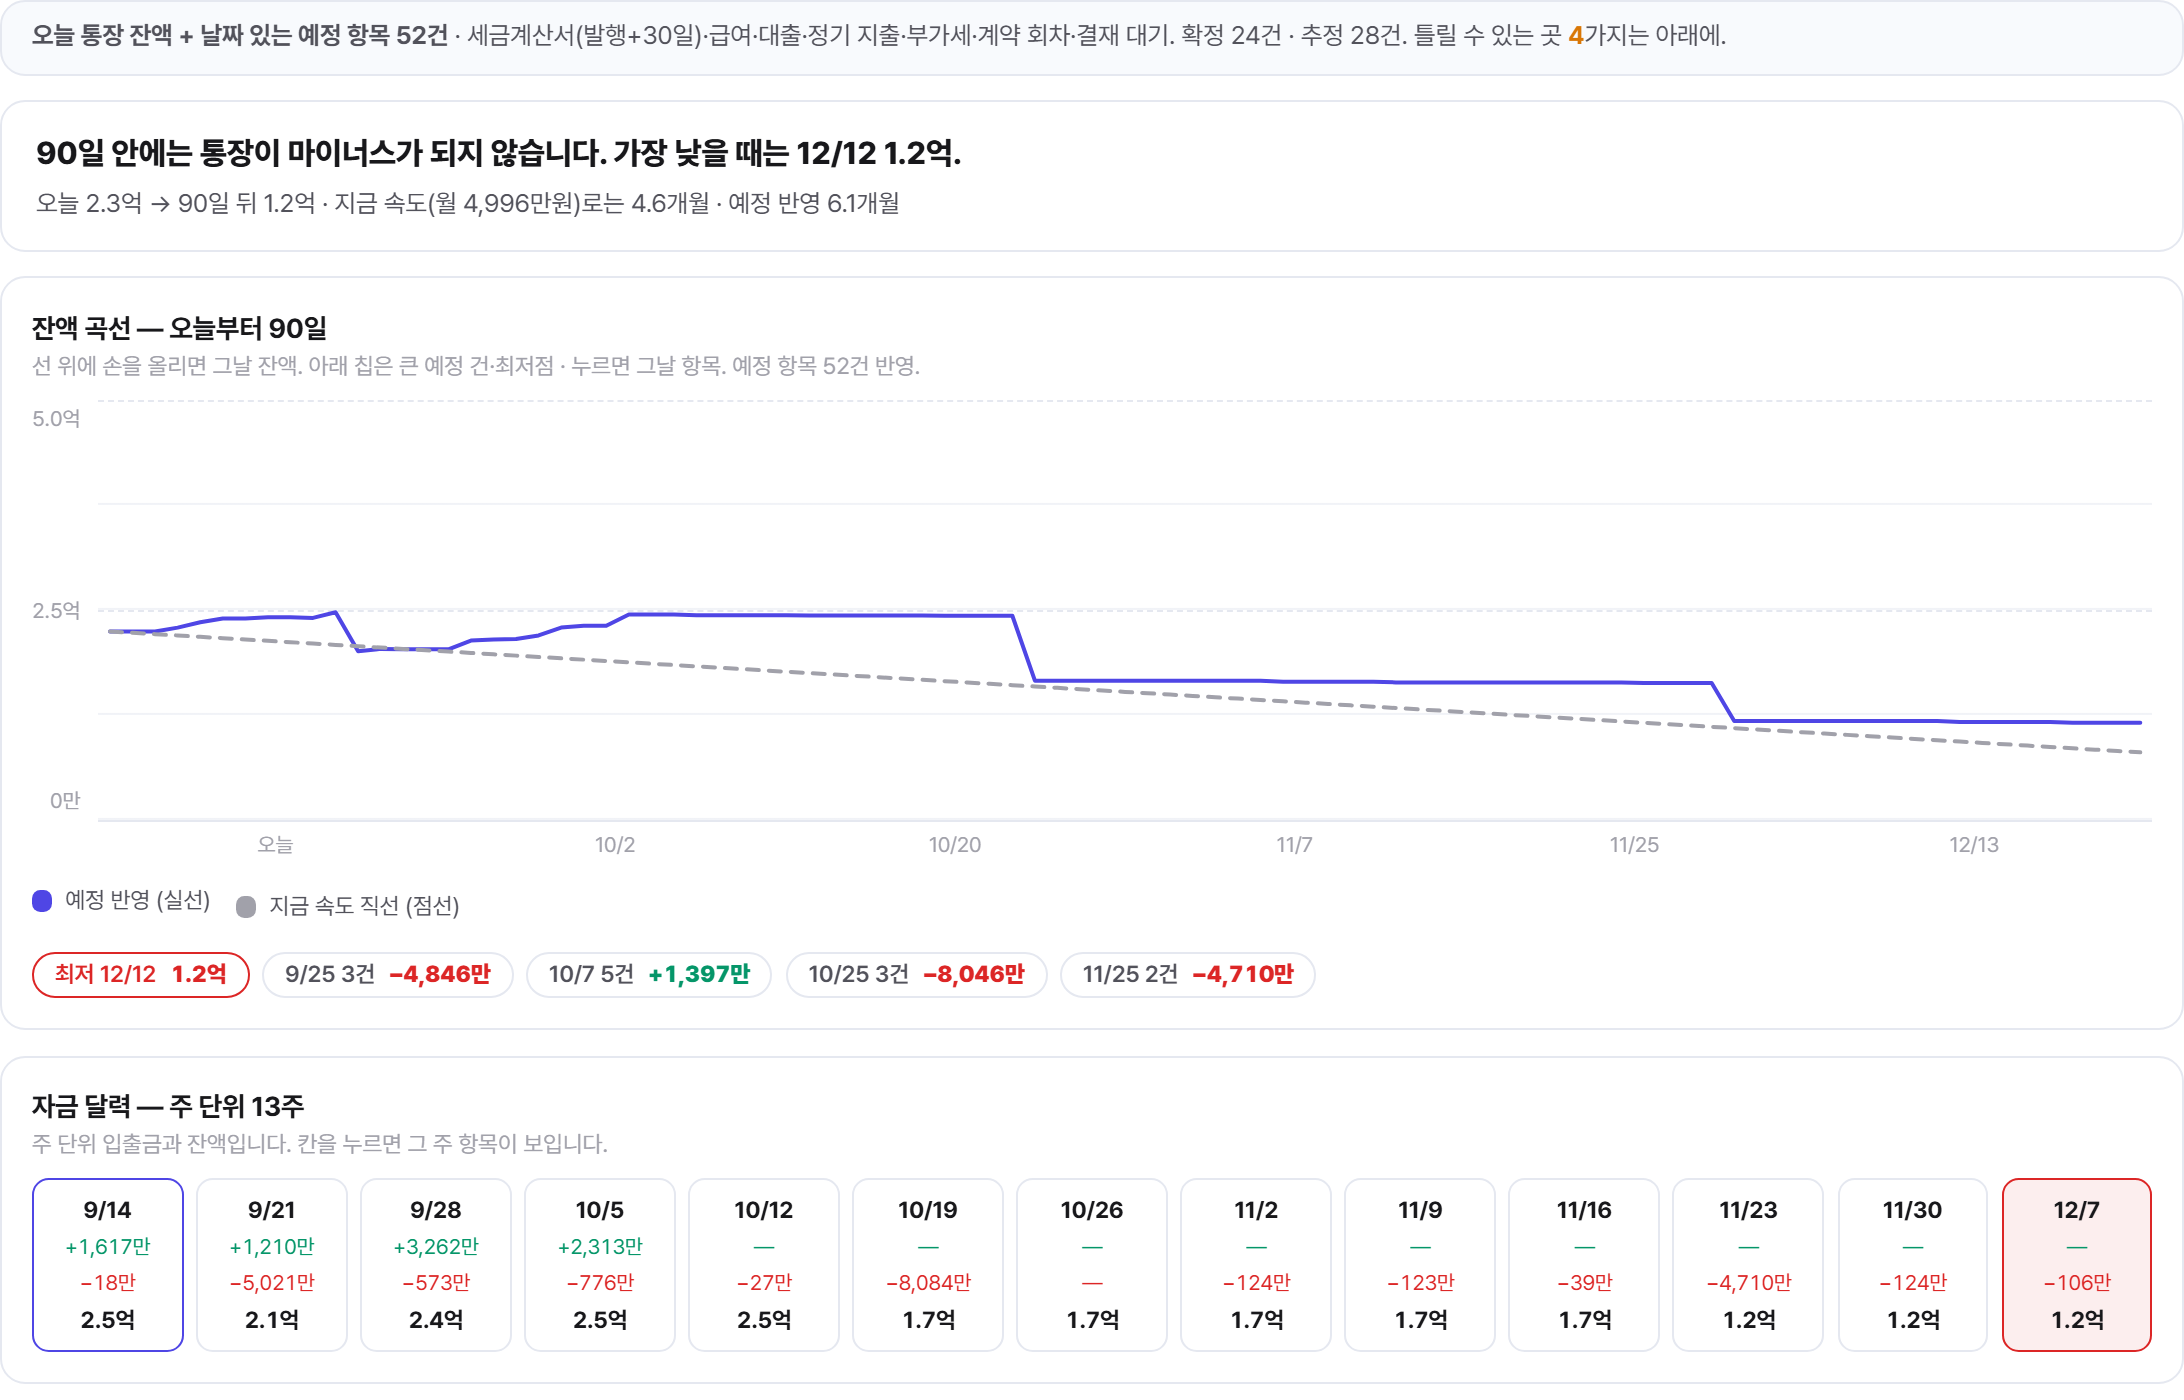
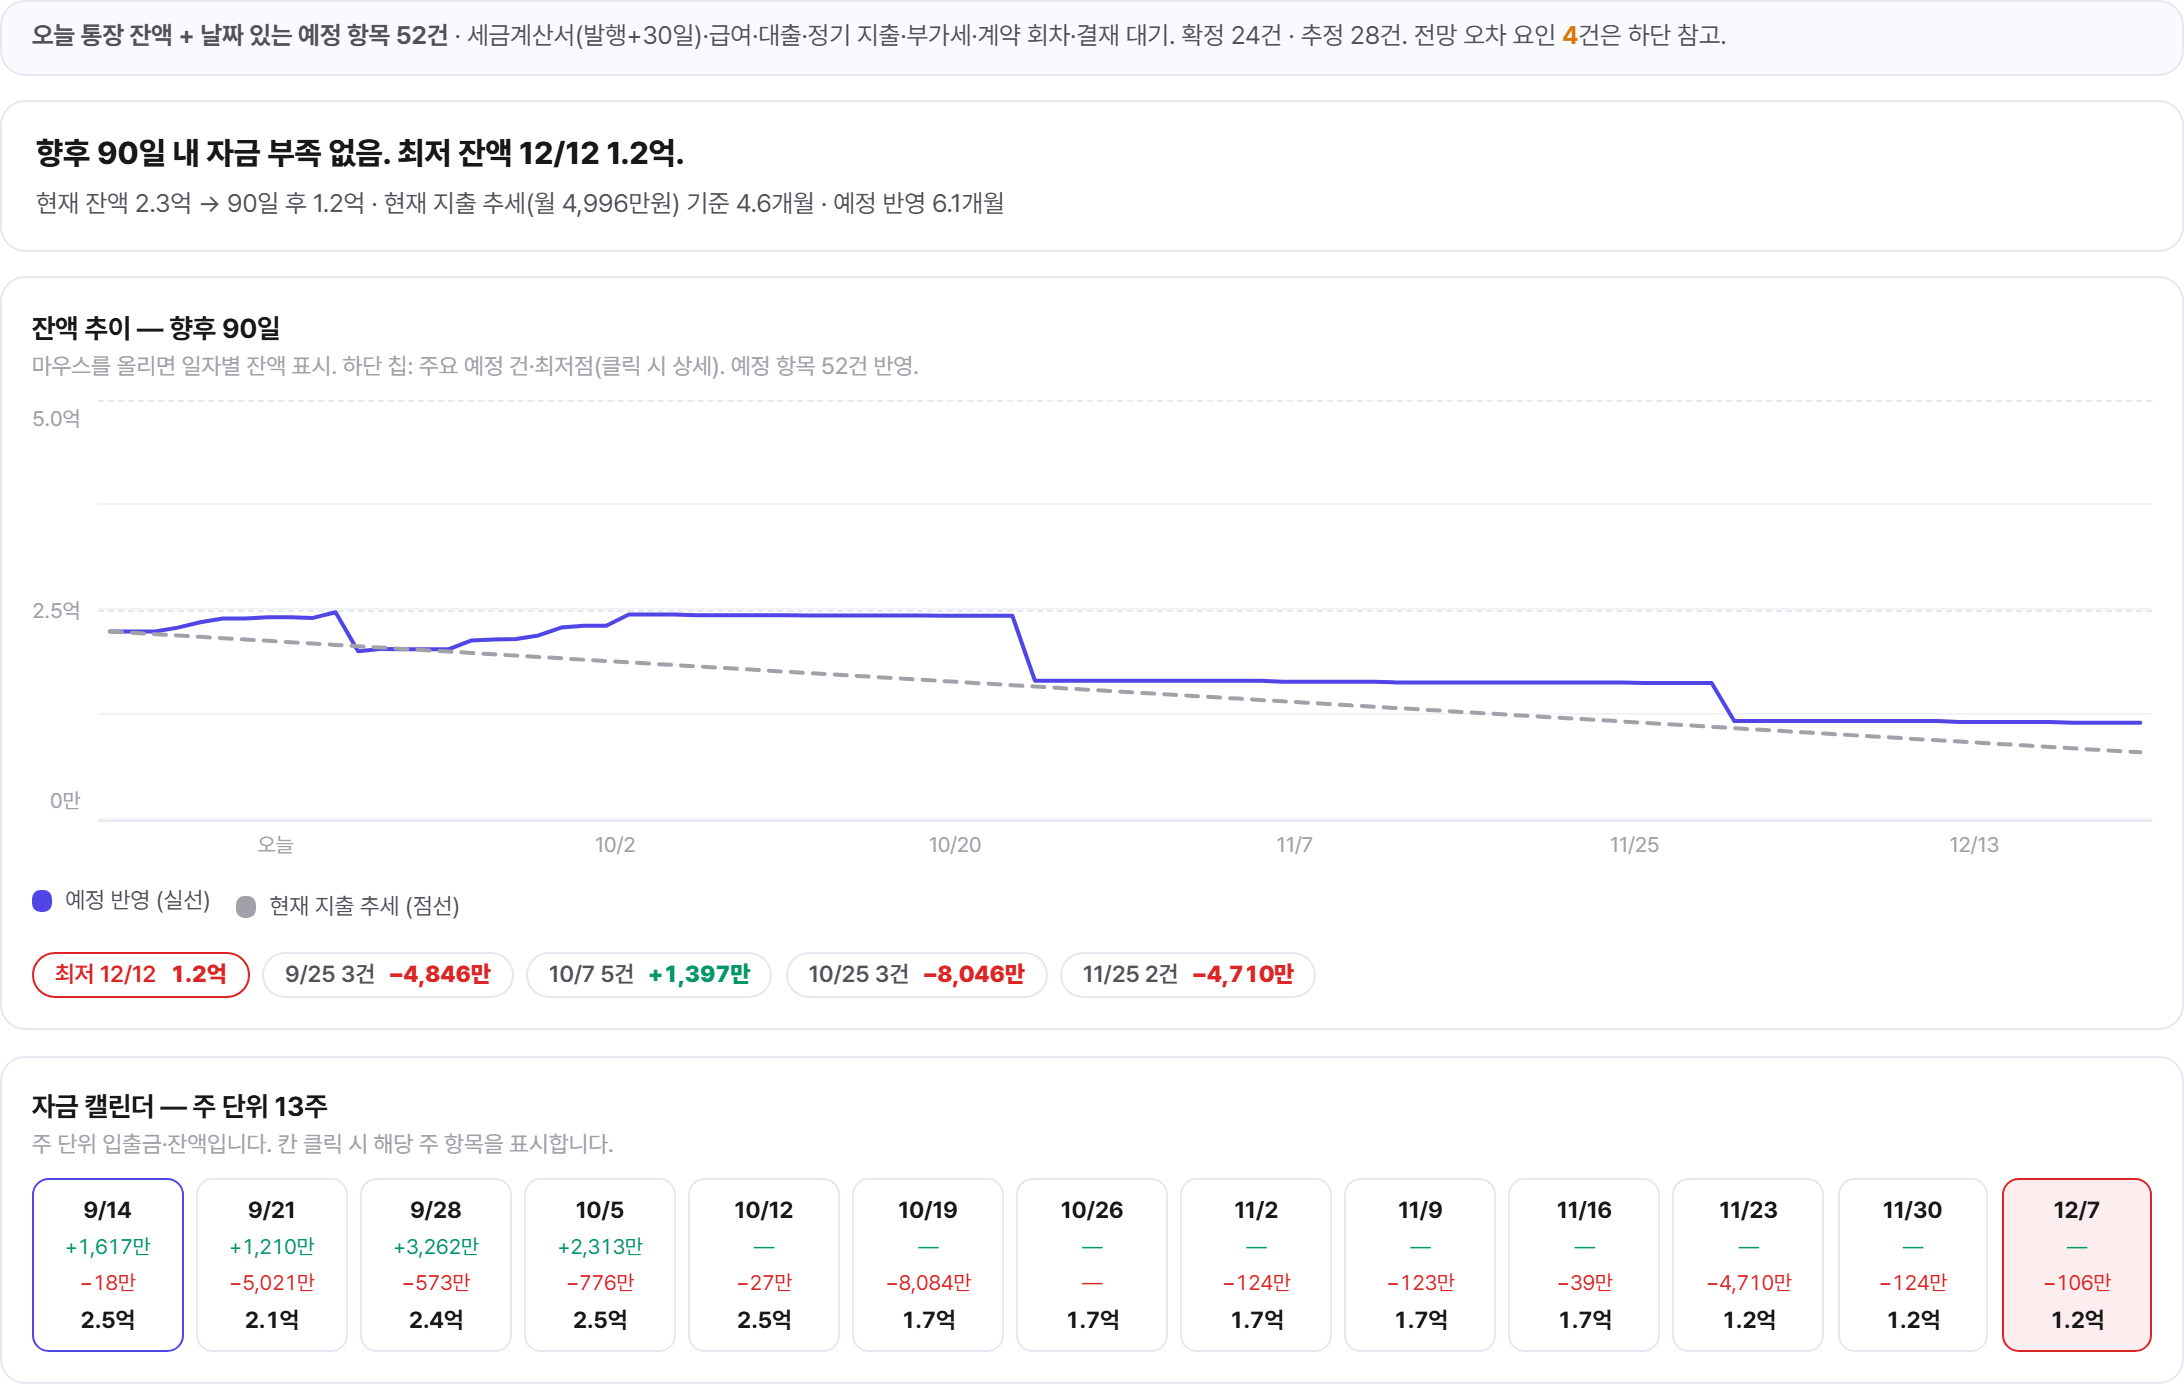
fix(문구·소개서): 자금 전망 기준 줄 「일자 지정 예정 항목」 · 소개서 캡처를 새 용어 화면으로 재촬영
왜: a2040aab 배포 후 QA 시드로 다시 찍어 보니 기준 줄 「오늘 통장 잔액 + 날짜 있는 예정 항목」 하나가 남아 있었다.
소개서 7쪽 캡처는 4cbec895·a2040aab 반영 화면(자금 현황·손익 현황·채권·채무 현황·이번 주 To-do·잔액 추이·자금 캘린더)으로 교체.

검증: 운영 QA 시드 캡처 육안 — 경영 요약·자금 전망에 구어체 라벨 없음. tsc 통과. 소개서 17쪽 재렌더.

Claude-Session: https://claude.ai/code/session_017N1JZWpHscg49NFPJSfAK8

diff --git a/src/app/(app)/reports/outlook/page.tsx b/src/app/(app)/reports/outlook/page.tsx
@@ -145,7 +145,7 @@ export default function OutlookPage() {
       {isLoading || !data || !base ? <div className="collect-empty">불러오는 중…</div> : (
         <div className="bz-body">
           <div className="pnl-basis-note">
-            <b>오늘 통장 잔액 + 날짜 있는 예정 항목 {data.items.length}건</b> · 세금계산서(발행+30일)·급여·대출·정기 지출·부가세·계약 회차·결재 대기. 확정  {data.items.filter((i) => i.sure === "확정").length}건 · 추정 {data.items.filter((i) => i.sure === "추정").length}건.
+            <b>현재 통장 잔액 + 일자 지정 예정 항목 {data.items.length}건</b> · 세금계산서(발행+30일)·급여·대출·정기 지출·부가세·계약 회차·결재 대기. 확정  {data.items.filter((i) => i.sure === "확정").length}건 · 추정 {data.items.filter((i) => i.sure === "추정").length}건.
             {data.gaps.length > 0 && <> 전망 오차 요인 <b className="text-[var(--warning)]">{data.gaps.length}</b>건은 하단 참고.</>}
           </div>
           <div className="pnl-headline">
